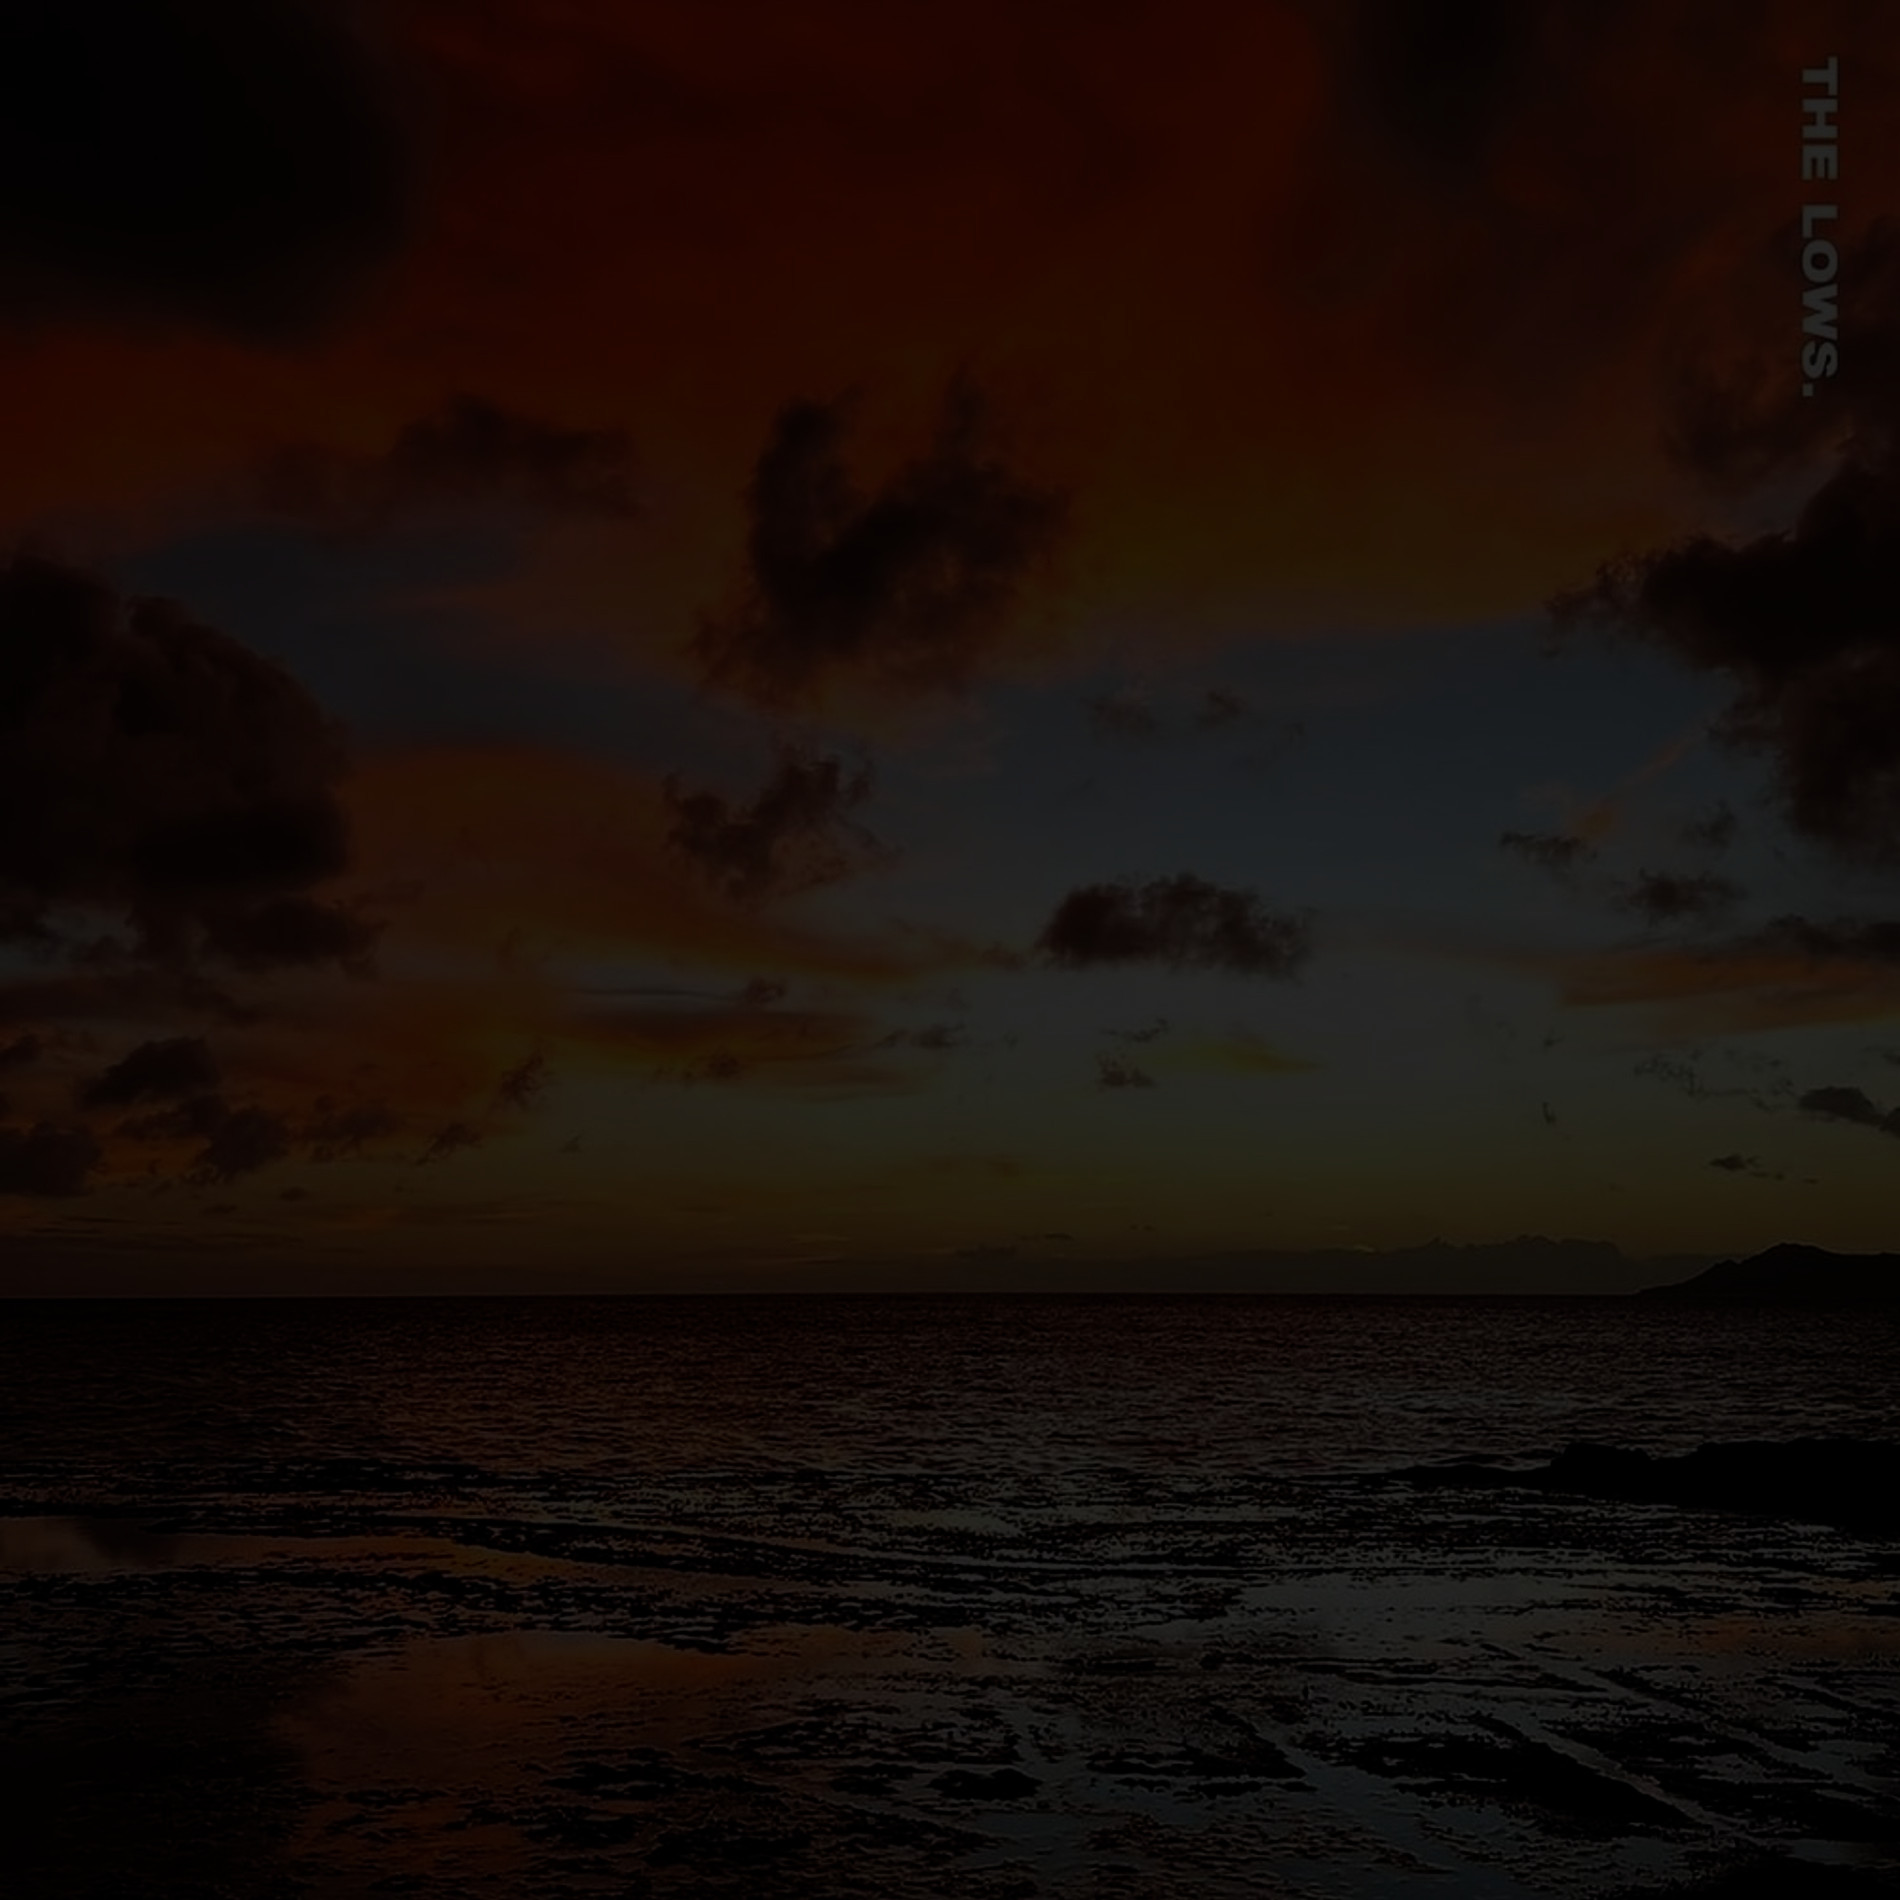
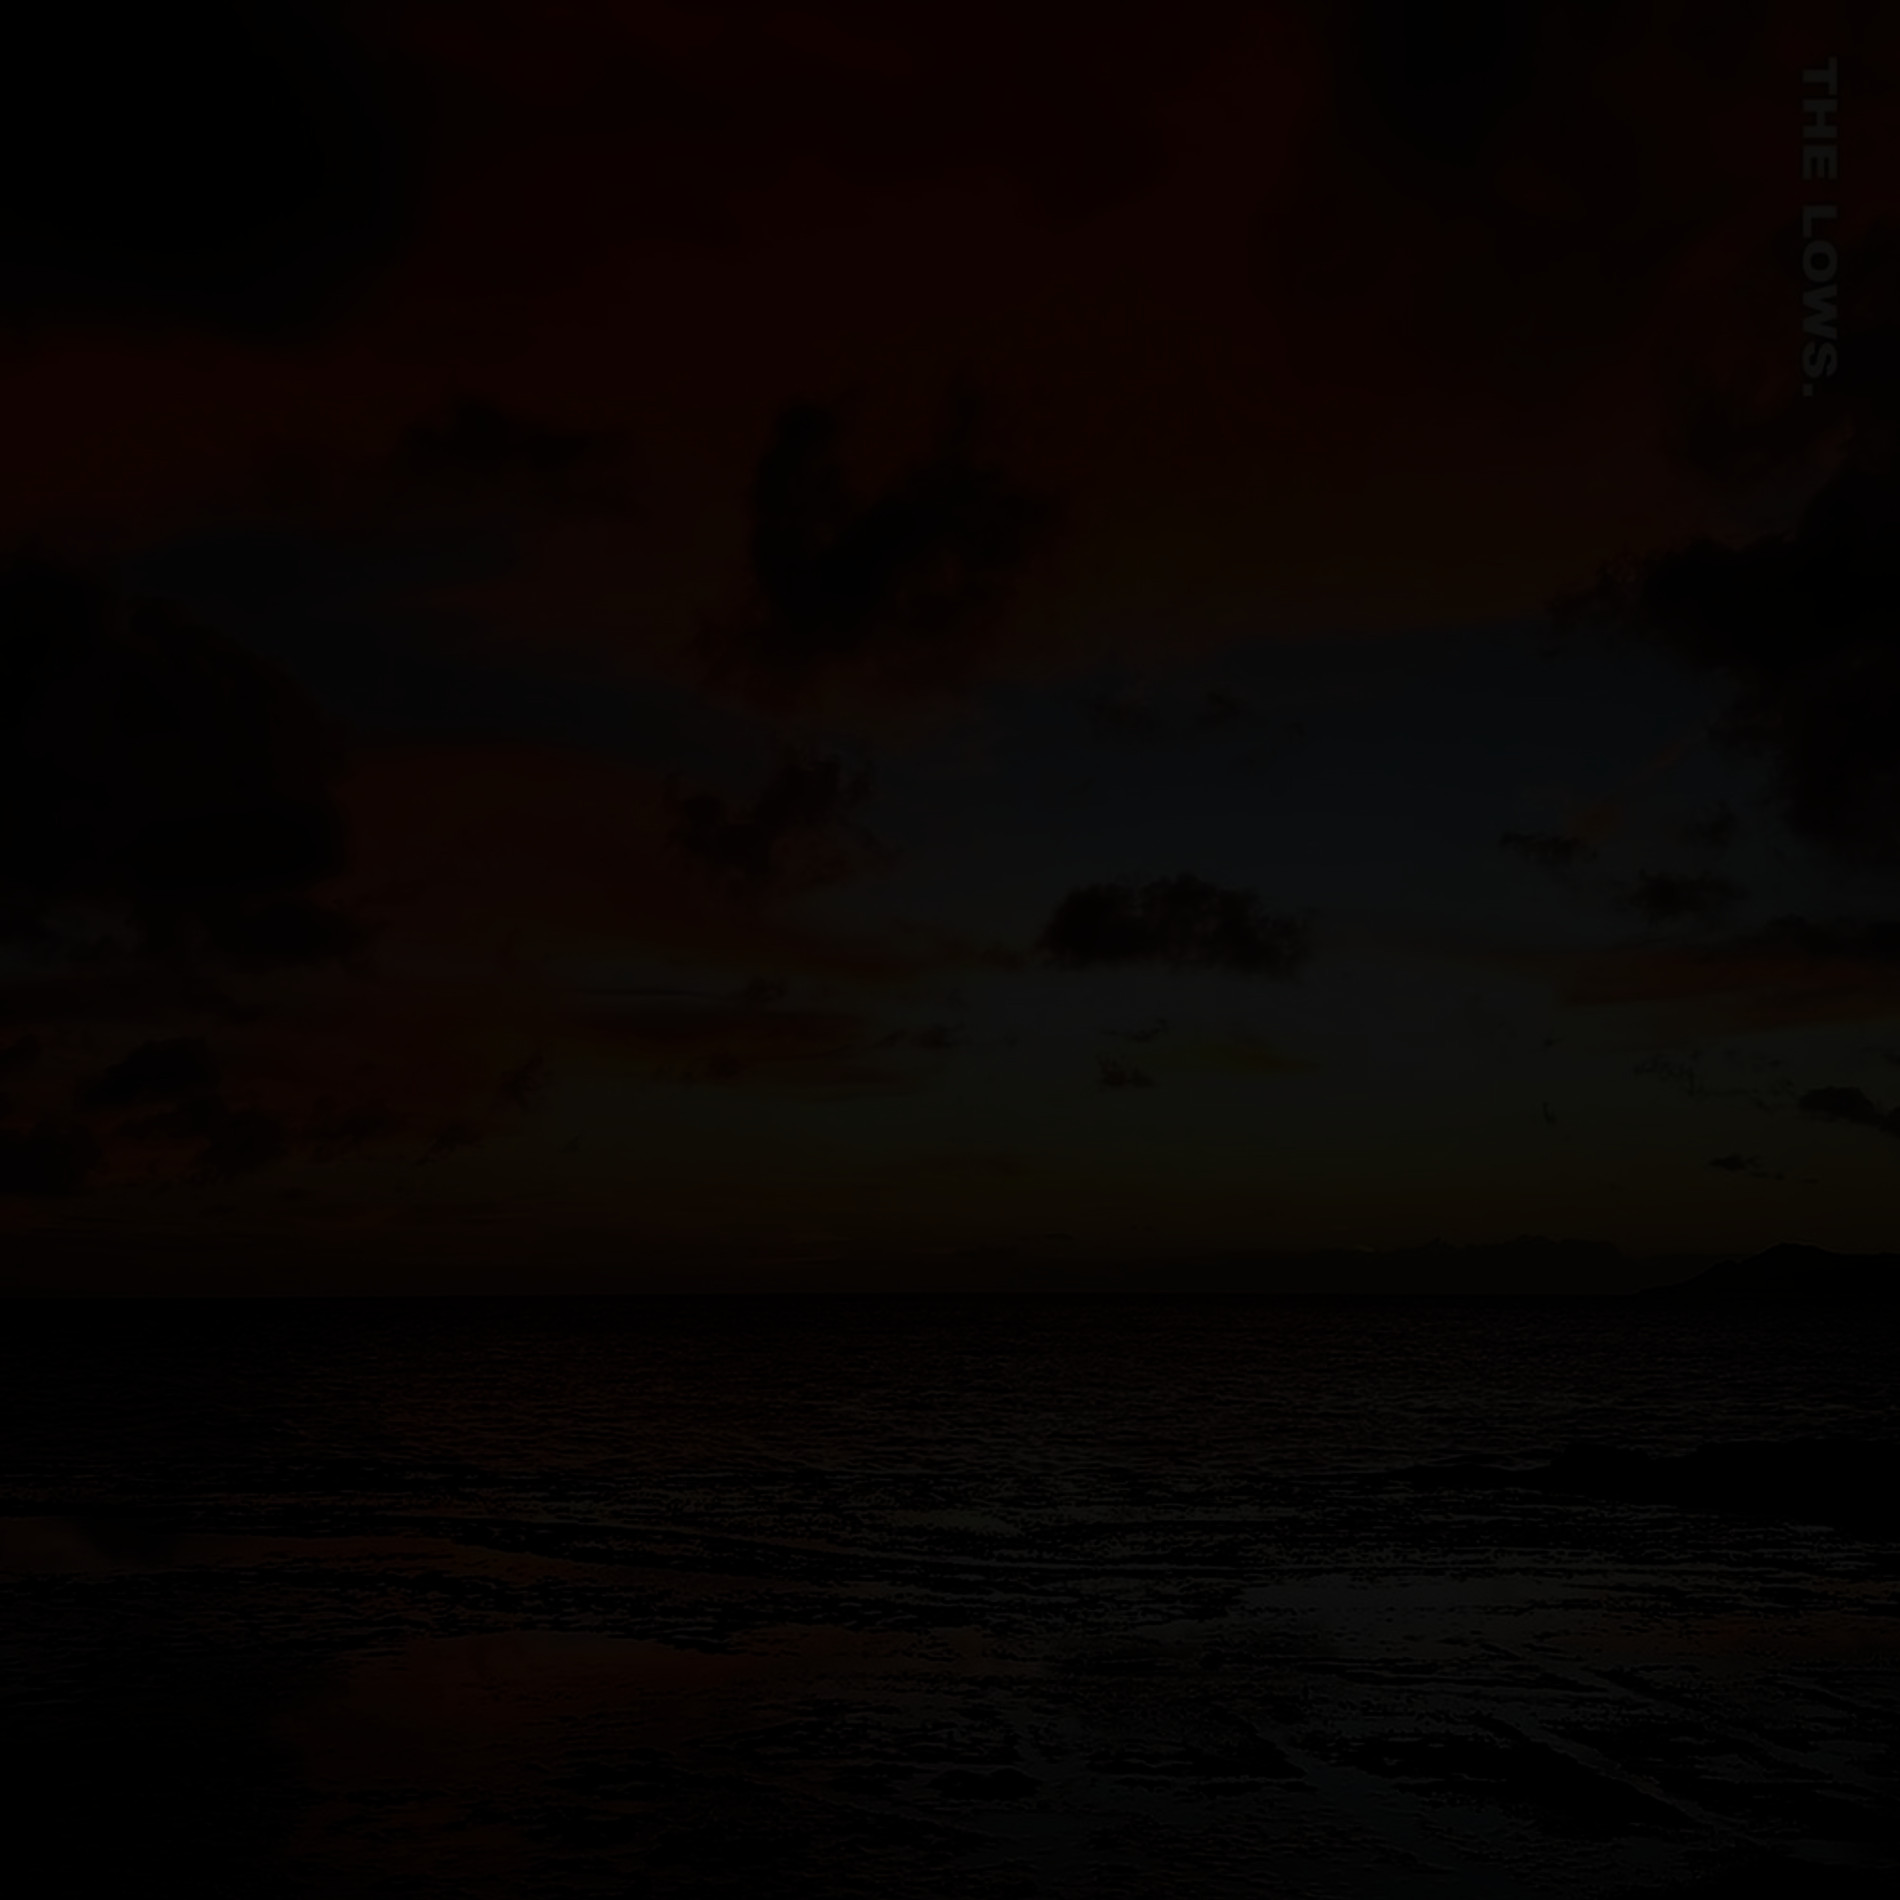
backgorund

diff --git a/app/playlist/page.tsx b/app/playlist/page.tsx
@@ -23,11 +23,11 @@ export default async function Leaderboard({ searchParams }: { searchParams: { ci
   return (
     <Suspense>
       <Header center={true} city={searchParams.city} />
-      <div className="flex flex-col text-white items-center justify-center bg-gray-950 md:max-w-lg w-full font-garamond-bold font-bold pt-8">
+      <div className="flex flex-col text-white items-center justify-center bg-custom md:max-w-lg w-full font-garamond-bold font-bold pt-8">
         <Tabs defaultValue="the-lows" className="text-white pt-8 w-full px-2 flex flex-col items-center">
-          <TabsList className="w-full bg-gray-900">
-            <TabsTrigger className="w-1/2 bg-gray-950" value="the-lows">The Lows</TabsTrigger>
-            <TabsTrigger className="w-1/2 bg-gray-950" value="other-songs">The Vibes</TabsTrigger>
+          <TabsList className="w-full bg-gray-950">
+            <TabsTrigger className="w-1/2 bg-none" value="the-lows">The Lows</TabsTrigger>
+            <TabsTrigger className="w-1/2 bg-none" value="other-songs">The Vibes</TabsTrigger>
           </TabsList>
           <TabsContent value="the-lows">
             <TourCityImage city={searchParams.city} />

diff --git a/app/album/page.tsx b/app/album/page.tsx
@@ -46,7 +46,7 @@ export default function Album() {
   return (
     <Suspense>
       <div className="bg-gray-950 md:max-w-lg m-auto" >
-        <Header />
+        <Header city="cleveland" center={false} />
         <p className="text-white pt-16 pb-1 text-center px-4 font-bold">Drag your favorite songs in order and submit to see other steve's favorites. Song lists are saved as you update. Submit your list as many times as you want!</p>
         <DragDropContext onDragEnd={onDragEnd}>
           <Droppable droppableId="list">
@@ -59,7 +59,7 @@ export default function Album() {
           </Droppable>
         </DragDropContext>
         {/* </div> */}
-        <Footer />
+        <Footer full={false} />
       </div >
     </Suspense>
   );

diff --git a/components/Header.tsx b/components/Header.tsx
@@ -127,7 +127,7 @@ export const Header = ({ center, city }: { center: boolean, city: string }) => {
     }
   }
 
-  const classes = !center ? "h-14 bg-black fixed z-50 flex flex-row justify-between items-center w-full md:max-w-lg px-2 py-2" : "h-14 bg-black fixed z-50 flex justify-center w-full md:max-w-lg px-2 py-2"
+  const classes = !center ? "h-14 bg-custom fixed z-50 flex flex-row justify-between items-center w-full md:max-w-lg px-2 py-2" : "h-14 bg-custom fixed z-50 flex justify-center w-full md:max-w-lg px-2 py-2"
   return (
     <Drawer>
       <div className={classes}>

diff --git a/app/page.tsx b/app/page.tsx
@@ -33,7 +33,7 @@ const cityList: Cities[] = [
 export default function Home() {
   useUser()
   return (
-    <div className="flex flex-col items-center  md:max-w-lg m-auto">
+    <div className="flex flex-col items-center bg-custom md:max-w-lg m-auto">
       <UpsideDownPlaylistHero />
       <div className="flex flex-col justify-between items-center text-white text-center">
         <div className="px-6">

diff --git a/app/globals.css b/app/globals.css
@@ -17,9 +17,9 @@
 
 .bg-custom {
   background-image: url('https://image.nostr.build/e6f1a4ba75093c76116e9e903d70914681b7b295fc0aa6a3222ed0af663f6fb2.jpg');
-  background-size: cover;
+  background-size:cover;
   background-position: center;
-  background-repeat: no-repeat;
+  background-repeat: repeat;
 }
 
 /* styles.css */
